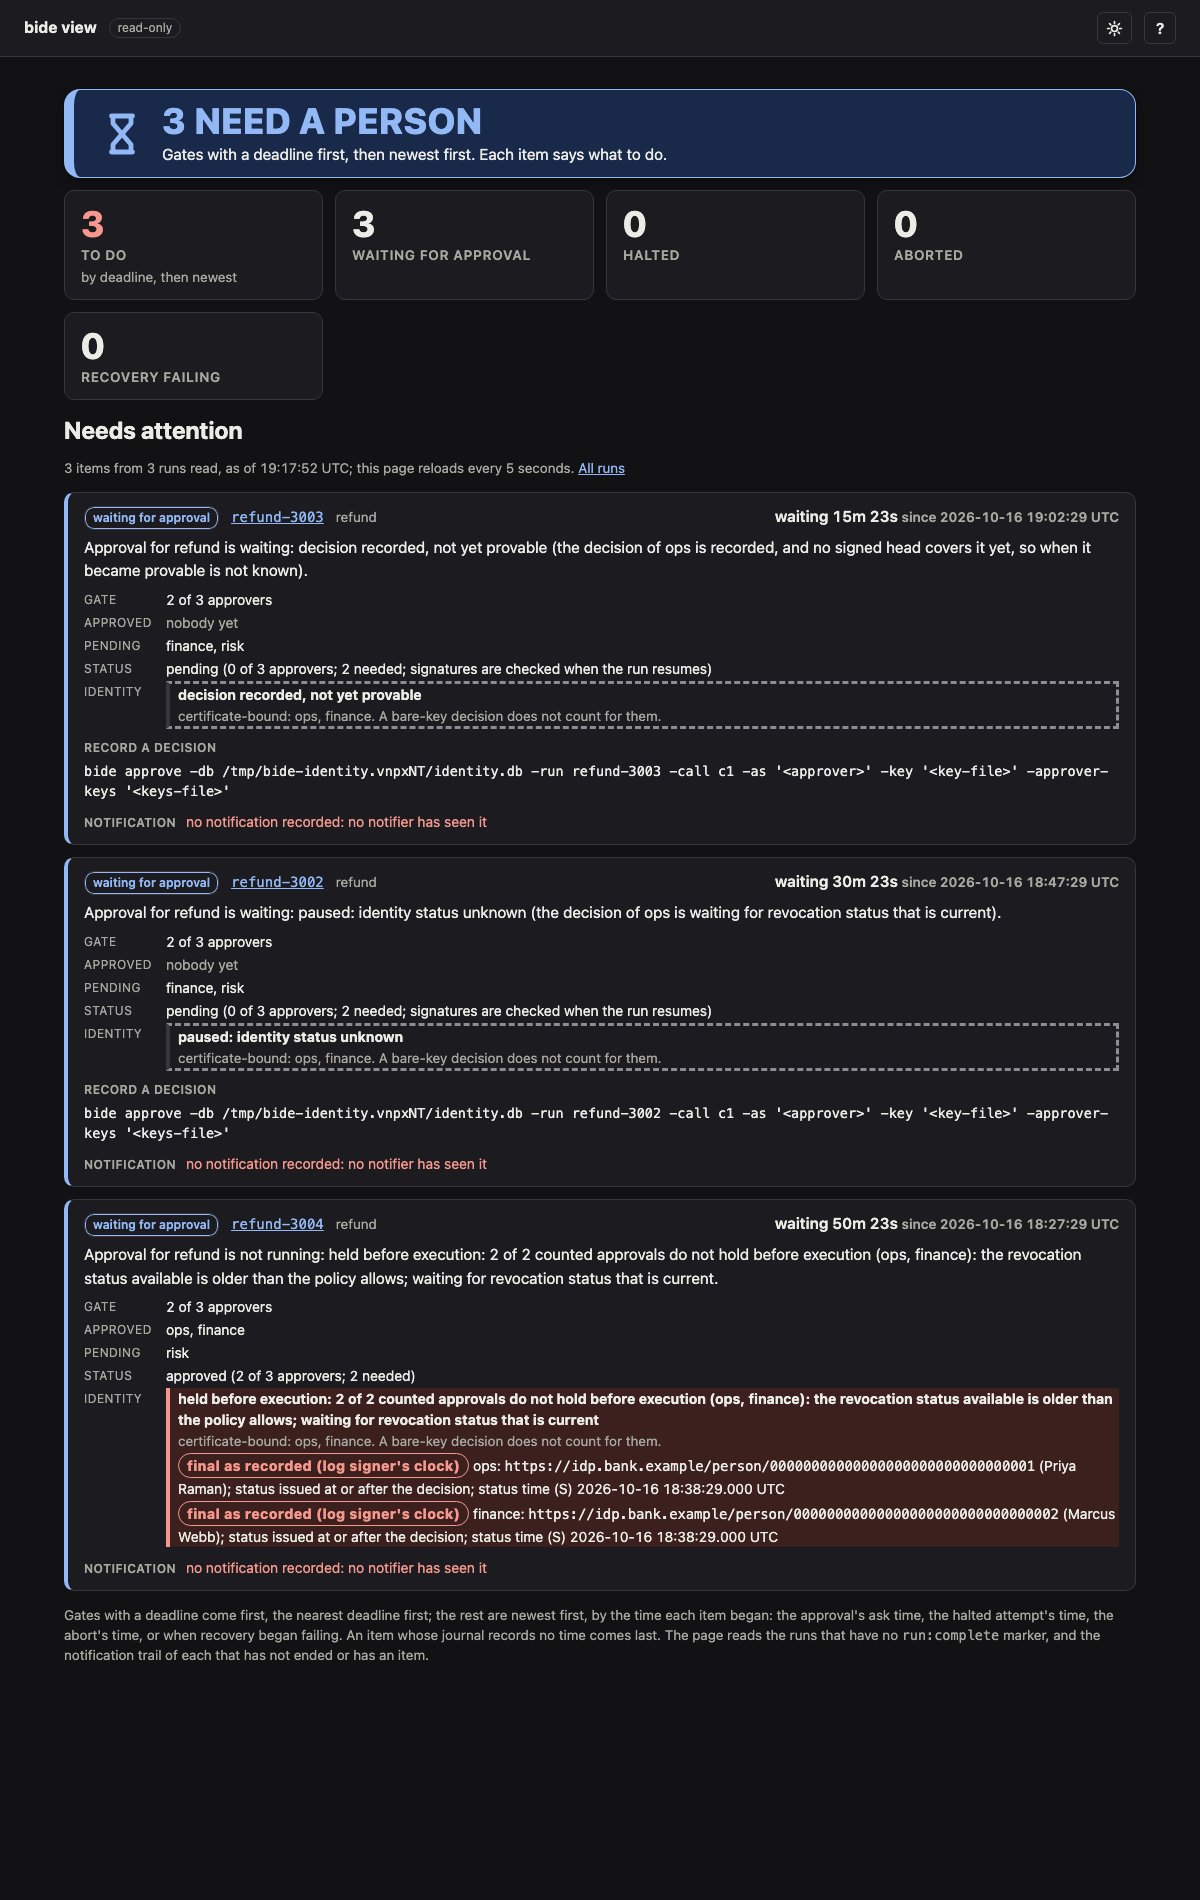
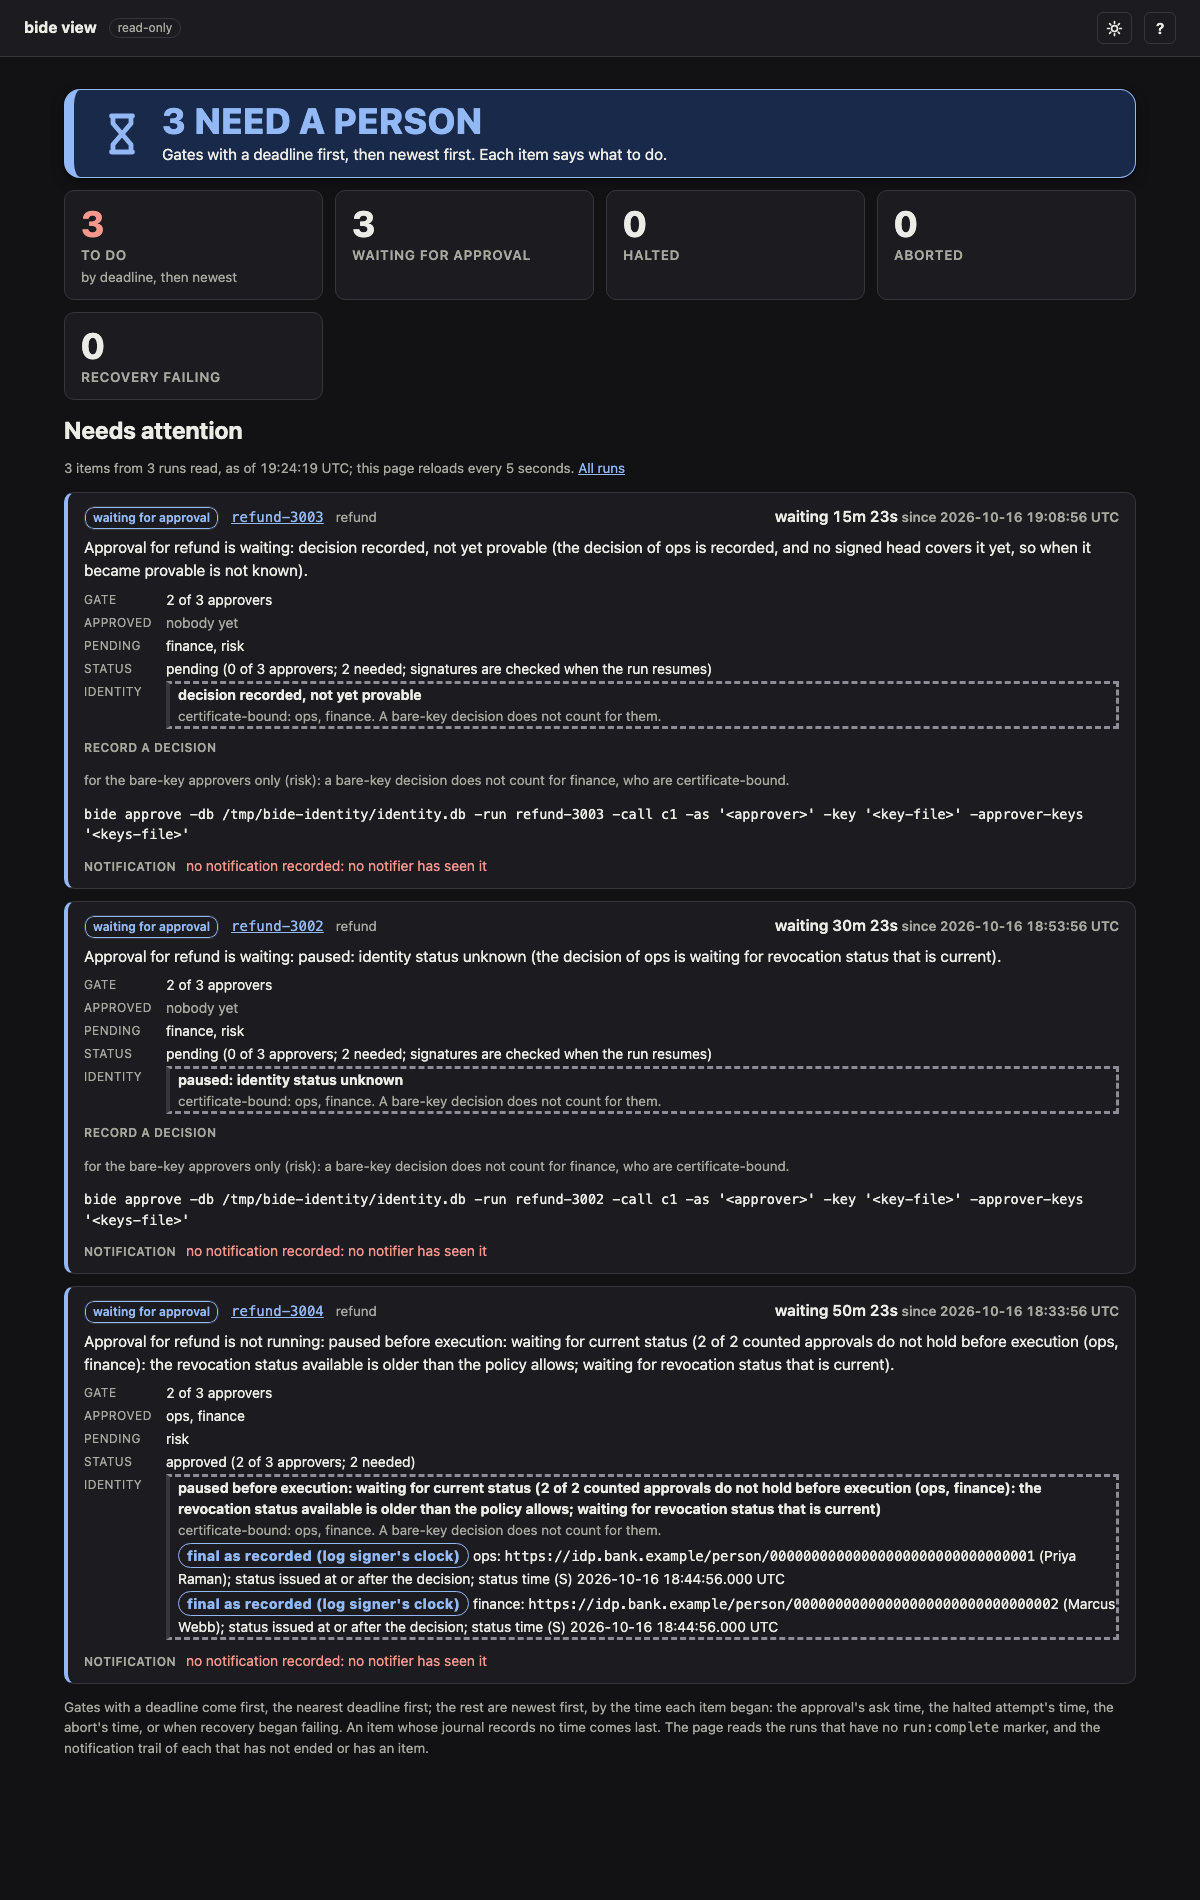
identity screenshots: bare-key command only for bare-key approvers, paused-for-status wording, checked demo journal, fixed demo path

Changed region(s): [[0.0308, 0.4037, 0.9558, 0.9316]]

diff --git a/internal/runview/assets/attention.html b/internal/runview/assets/attention.html
@@ -23,7 +23,7 @@
 {{range .Cards}}<br><span class="idc id-{{.Class}}"><span class="idbadge">{{.TierText}}</span>{{if .Disputed}} <span class="iddisputed">DISPUTED</span>{{end}} {{.Approver}}: <span class="mono">{{.Identifier}}</span>{{with .DisplayName}} ({{.}}){{end}}{{with .Basis}}; {{.}}{{end}}{{with .StatusTime}}; status time (S) {{.}} UTC{{end}}</span>{{end}}</dd>{{end}}
 {{if .Due}}<dt>Deadline</dt><dd class="{{if .Overdue}}bad{{else if .DueSoon}}warn{{end}}">{{if .DueSoon}}{{if .Overdue}}OVERDUE{{else}}DUE SOON{{end}}: {{end}}{{.Due}}</dd>{{end}}
 </dl>{{end}}
-{{if and .Gate .Gate.Overdue}}<p class="attn-label">Deadline passed</p><p class="muted">Decisions on this gate are refused. Drive the run again (resume it) to record the expiry; the call does not run.</p>{{else if .Command}}<p class="attn-label">Record a decision</p><pre class="attn-cmd">{{.Command}}</pre>{{else if .NoCommand}}<p class="attn-label">Record a decision</p><p class="muted">{{.NoCommand}}: an id holds a control or invisible character. Use <code>bide approve -list</code>.</p>{{end}}
+{{if and .Gate .Gate.Overdue}}<p class="attn-label">Deadline passed</p><p class="muted">Decisions on this gate are refused. Drive the run again (resume it) to record the expiry; the call does not run.</p>{{else if .CertOnly}}<p class="attn-label">Record a decision</p><p class="muted">{{.CommandNote}}.</p>{{else if .Command}}<p class="attn-label">Record a decision</p>{{with .CommandNote}}<p class="muted small">{{.}}.</p>{{end}}<pre class="attn-cmd">{{.Command}}</pre>{{else if .NoCommand}}<p class="attn-label">Record a decision</p><p class="muted">{{.NoCommand}}: an id holds a control or invisible character. Use <code>bide approve -list</code>.</p>{{end}}
 {{with .Halt}}<p class="attn-label">Outcome unknown: look the operation up where it ran, then record what happened</p><pre class="attn-cmd">agent.ResolveHalt(ctx, journal,
   {{.Ref}},
   agent.Outcome{Result: ...})</pre>{{end}}

diff --git a/internal/runview/identity_test.go b/internal/runview/identity_test.go
@@ -544,13 +544,54 @@ func TestIdentity_RecordTimesWithoutMilliseconds(t *testing.T) {
 	}
 }
 
-// A counted gate whose newest phase note says exec-hold, with no hold record and no result, is held, not final.
+// A counted gate whose newest phase note says exec-hold, with no hold record and no result, is paused for status, never final.
 func TestIdentity_ExecHoldNoteWithoutARecordIsHeld(t *testing.T) {
 	fx := identRecs(t, agent.TierLogclockFinal, true, nil)
 	note, _ := json.Marshal(agent.ApprovalWait{ToolUseID: "c1", ToolName: "refund", Need: 1, Approvers: []string{"alice"}, IdentityBound: true, Pause: agent.PauseExecHold, PauseDetail: "the status is older than the execution bound"})
 	recs := append(fx.recs, agent.Record{Name: agent.ApprovalPauseStep("c1", 1), Kind: agent.StepValue, Result: note})
 	g := identGate(t, recs)
-	if g.Identity.Hold == nil || !g.Held || g.Identity.Class == "final" || !strings.Contains(g.Identity.PhaseText, "older than the execution bound") {
+	if !g.Identity.Paused || g.Identity.Hold != nil || !g.Held || g.Identity.Class != "wait" || !strings.Contains(g.Identity.PhaseText, "paused before execution: waiting for current status") ||
+		!strings.Contains(g.Identity.PhaseText, "older than the execution bound") {
 		t.Fatalf("identity = %+v", g.Identity)
+	}
+}
+
+// The bare-key command is shown only for bare-key approvers, and not at all when every pending approver is certificate-bound.
+func TestIdentity_AttentionCommandIsForBareKeyApproversOnly(t *testing.T) {
+	cmdOpts := Options{ApproveCommand: func(run, call string, single bool) (string, error) {
+		return "bide approve -run " + run + " -call " + call, nil
+	}}
+	mk := func(approvers, bound []string) AttentionItem {
+		w, _ := json.Marshal(agent.ApprovalWait{ToolUseID: "c1", ToolName: "refund", Need: 2, Approvers: approvers, IdentityBound: true, IdentityApprovers: bound, IdentityPolicyDigest: strings.Repeat("a", 64)})
+		recs := []agent.Record{
+			{Name: "@llm/0", Kind: agent.StepModel, Message: &agent.Message{Role: agent.RoleAssistant, Parts: []agent.Part{agent.ToolUse{ID: "c1", Name: "refund", Args: json.RawMessage(`{}`)}}}},
+			rec(agent.ApprovalPendingStep("c1"), json.RawMessage(w)),
+		}
+		v := Options{}.viewOf(context.Background(), "r1", recs, nil)
+		items := cmdOpts.runItems(v, recs)
+		if len(items) != 1 {
+			t.Fatalf("items = %+v", items)
+		}
+		return items[0]
+	}
+	mixed := mk([]string{"ops", "risk"}, []string{"ops"})
+	if mixed.Command == "" || !strings.Contains(mixed.CommandNote, "bare-key approvers only (risk)") || !strings.Contains(mixed.CommandNote, "ops") {
+		t.Fatalf("mixed: %+v", mixed)
+	}
+	certOnly := mk([]string{"ops", "finance"}, []string{"ops", "finance"})
+	if certOnly.Command != "" || !certOnly.CertOnly || !strings.Contains(certOnly.CommandNote, "ops, finance") {
+		t.Fatalf("cert only: %+v", certOnly)
+	}
+}
+
+// The paused-for-status summary says the detail once.
+func TestIdentity_PausedSummaryDoesNotRepeatTheDetail(t *testing.T) {
+	fx := identRecs(t, agent.TierLogclockFinal, true, nil)
+	note, _ := json.Marshal(agent.ApprovalWait{ToolUseID: "c1", ToolName: "refund", Need: 1, Approvers: []string{"alice"}, IdentityBound: true, Pause: agent.PauseExecHold, PauseDetail: "status is old"})
+	recs := append(fx.recs, agent.Record{Name: agent.ApprovalPauseStep("c1", 1), Kind: agent.StepValue, Result: note})
+	v := Options{}.viewOf(context.Background(), "r1", recs, nil)
+	items := Options{}.runItems(v, recs)
+	if len(items) != 1 || strings.Count(items[0].Summary, "status is old") != 1 {
+		t.Fatalf("items = %+v", items)
 	}
 }

diff --git a/cmd/bide/internal/identitydemo/demo_test.go b/cmd/bide/internal/identitydemo/demo_test.go
@@ -21,12 +21,14 @@ import (
 	"net/url"
 	"os"
 	"path/filepath"
+	"slices"
 	"testing"
 	"time"
 
 	"github.com/bide-ai/bide/agent"
 	"github.com/bide-ai/bide/agent/agenttest"
 	"github.com/bide-ai/bide/audit"
+	"github.com/bide-ai/bide/internal/runview"
 	"github.com/bide-ai/bide/internal/testca"
 	"github.com/bide-ai/bide/store/sqlite"
 )
@@ -185,11 +187,6 @@ func run(t *testing.T, dir string) error {
 	}
 	clock = ago(5 * time.Minute)
 	if err := drive("refund-3001", "3001", v); err != nil {
-		recs, _ := j.History(ctx, "refund-3001")
-		_, checks := agent.TallyApprovals(recs, agent.ApprovalSubject{RunID: "refund-3001", ToolUseID: "c1", ToolName: "refund", Args: json.RawMessage(`{"order":"3001","amount":4800,"currency":"USD"}`)}, agent.ApprovalPolicy{Need: 2, Approvers: []string{"ops", "finance", "risk"}}, v)
-		for _, c := range checks {
-			fmt.Fprintf(os.Stderr, "check %s counted=%v reason=%q cert=%+v\n", c.Approver, c.Counted, c.Reason, c.Cert)
-		}
 		return fmt.Errorf("refund-3001: %w", err)
 	}
 
@@ -245,7 +242,55 @@ func run(t *testing.T, dir string) error {
 	}
 	clock = ago(6 * time.Minute)
 	if err := drive("refund-3004", "3004", v); err == nil {
-		fmt.Fprintln(os.Stderr, "identity.go: note: refund-3004 was not held")
+		return errors.New("refund-3004 ran: the gate did not stop it on stale status")
+	}
+	return check(ctx, j)
+}
+
+// check reads each written run back through the viewer and fails unless it is the state the guide's
+// pictures say it is, so a screenshot can never show another state under its caption.
+func check(ctx context.Context, j *agent.Journal) error {
+	gate := func(run string) (runview.Gate, bool, error) {
+		recs, err := j.History(ctx, run)
+		if err != nil {
+			return runview.Gate{}, false, err
+		}
+		v := runview.Build(ctx, run, recs, nil)
+		if len(v.Gates) != 1 || v.Gates[0].Identity == nil {
+			return runview.Gate{}, false, fmt.Errorf("%s: gates = %+v", run, v.Gates)
+		}
+		ran := slices.ContainsFunc(recs, func(r agent.Record) bool { return r.Kind == agent.StepToolResult && r.ToolUseID == "c1" })
+		return v.Gates[0], ran, nil
+	}
+	want := func(run string, ran bool, phase, class string) (runview.Gate, error) {
+		g, did, err := gate(run)
+		if err != nil {
+			return g, err
+		}
+		if did != ran || g.Identity.Phase != phase || g.Identity.Class != class {
+			return g, fmt.Errorf("%s: executed=%v phase=%q class=%q, want executed=%v phase=%q class=%q (%+v)", run, did, g.Identity.Phase, g.Identity.Class, ran, phase, class, g.Identity)
+		}
+		return g, nil
+	}
+	g, err := want("refund-3001", true, "", "prov")
+	if err != nil {
+		return err
+	}
+	if len(g.Identity.Cards) != 2 || g.Identity.Cards[0].Tier != agent.TierLogclockFinal || g.Identity.Cards[1].Tier != agent.TierProvisional {
+		return fmt.Errorf("refund-3001: cards = %+v", g.Identity.Cards)
+	}
+	if _, err := want("refund-3002", false, agent.PauseAwaitingStatus, "wait"); err != nil {
+		return err
+	}
+	if _, err := want("refund-3003", false, agent.PauseAwaitingAnchor, "wait"); err != nil {
+		return err
+	}
+	g, err = want("refund-3004", false, agent.PauseExecHold, "wait")
+	if err != nil {
+		return err
+	}
+	if !g.Identity.Paused || !g.Held {
+		return fmt.Errorf("refund-3004: not paused before execution: %+v", g.Identity)
 	}
 	return nil
 }

diff --git a/internal/runview/identity.go b/internal/runview/identity.go
@@ -40,10 +40,14 @@ type GateIdentity struct {
 	Detail    string `json:"detail,omitempty"`
 	// Unchecked are certificate-bound approvers who decided on a gate that has not counted yet: the
 	// decision is recorded, and nothing here says it counts.
-	Unchecked                 []string       `json:"unchecked,omitempty"`
-	Cards                     []IdentityCard `json:"cards,omitempty"`
-	Hold                      *IdentityHold  `json:"hold,omitempty"`
-	tallyDigest, recordPolicy string         // the current count's, for matching an audit result
+	Unchecked []string       `json:"unchecked,omitempty"`
+	Cards     []IdentityCard `json:"cards,omitempty"`
+	Hold      *IdentityHold  `json:"hold,omitempty"`
+	// Paused: the newest phase note says exec-hold but the journal holds no hold record, which is the
+	// gate waiting for current status before it runs the call (nothing authoritative is written; the same
+	// approvals run once status is fresh), not a revoked or no-longer-verifying decision.
+	Paused                    bool   `json:"paused,omitempty"`
+	tallyDigest, recordPolicy string // the current count's, for matching an audit result
 	// Generation is the gate's newest count (0 is the first); Reasked says a call was held before
 	// execution and the gate asked again, so earlier counts are history.
 	Generation int  `json:"generation,omitempty"`
@@ -327,10 +331,10 @@ func identityOf(recs []agent.Record, byName map[string]agent.Record, id string, 
 		}
 	}
 	// The phase note is a hint, but a counted gate whose newest note says exec-hold and whose call has no
-	// result is shown held even when the hold record is absent: never as final.
+	// result is shown paused even when the hold record is absent: never as final.
 	if gi.Hold == nil && haveTally && !resulted && gi.Phase == agent.PauseExecHold {
-		gi.Hold = &IdentityHold{Reason: "exec-hold", Detail: gi.Detail}
-		gi.PhaseText = "held before execution: " + cmpStr(gi.Detail, "the phase note says the pre-execution status check holds the call (no hold record in the journal)")
+		gi.Paused = true
+		gi.PhaseText = "paused before execution: waiting for current status" + cond(gi.Detail != "", " ("+gi.Detail+")", "")
 	}
 	gi.Class, gi.Line = identityClass(gi, g)
 	return gi
@@ -371,6 +375,8 @@ func identityClass(gi *GateIdentity, g Gate) (class, line string) {
 			return identWait, "decision recorded, identity not checked yet"
 		}
 		return identWait, "waiting for decisions"
+	case gi.Paused:
+		return identWait, gi.PhaseText
 	case gi.Hold != nil:
 		return identBad, gi.PhaseText + cond(gi.Reasked, " (re-asked after an earlier hold)", "")
 	}

diff --git a/internal/runview/attention.go b/internal/runview/attention.go
@@ -71,6 +71,11 @@ type AttentionItem struct {
 	// NoCommand says why an approval has none although the viewer writes them: an id that cannot be
 	// shown or pasted safely (approveline.ErrUnsafe).
 	NoCommand string `json:"no_command,omitempty"`
+	// CommandNote qualifies Command on a gate with certificate-bound approvers: the command signs a bare
+	// key, so it is for the bare-key approvers only, and a bare-key decision does not count for the
+	// certificate-bound ones. CertOnly: every pending approver is certificate-bound, so no command is shown.
+	CommandNote string `json:"command_note,omitempty"`
+	CertOnly    bool   `json:"cert_only,omitempty"`
 	// Notify says whether the item was notified and acknowledged; nil without the notify trail.
 	Notify *NotifyStatus `json:"notify,omitempty"`
 }
@@ -353,7 +358,7 @@ func (o Options) runItems(v *View, recs []agent.Record) []AttentionItem {
 		if gi := g.Identity; gi != nil && gi.PhaseText != "" {
 			// The phase leads: it is why a person is needed, and what to do differs from a plain wait.
 			it.Summary = "Approval for " + cmp.Or(g.ToolName, g.ToolUseID) + " is " + cond(g.Held, "not running", "waiting") + ": " + gi.PhaseText
-			if gi.Detail != "" && gi.Hold == nil {
+			if gi.Detail != "" && gi.Hold == nil && !gi.Paused {
 				it.Summary += " (" + gi.Detail + ")"
 			}
 			it.Summary += "."
@@ -382,6 +387,23 @@ func (o Options) runItems(v *View, recs []agent.Record) []AttentionItem {
 				it.NoCommand = "no command"
 			default:
 				it.Command = cmd
+			}
+			if gi := g.Identity; gi != nil && gi.Bound && !g.Single {
+				var bare, bound []string
+				for _, a := range g.Pending {
+					if slices.Contains(gi.Approvers, a) {
+						bound = append(bound, a)
+					} else {
+						bare = append(bare, a)
+					}
+				}
+				switch {
+				case len(bare) == 0:
+					it.Command, it.NoCommand, it.CertOnly = "", "", true
+					it.CommandNote = "every pending approver (" + strings.Join(bound, ", ") + ") is certificate-bound: a bare-key decision does not count for them, so no bare-key command is shown"
+				case len(bound) > 0 && it.Command != "":
+					it.CommandNote = "for the bare-key approvers only (" + strings.Join(bare, ", ") + "): a bare-key decision does not count for " + strings.Join(bound, ", ") + ", who are certificate-bound"
+				}
 			}
 		}
 		out = append(out, it)

diff --git a/internal/runview/model.go b/internal/runview/model.go
@@ -695,7 +695,7 @@ func gates(recs []agent.Record, calls map[string]agent.ToolUse, order []string) 
 		if g.Identity = identityOf(recs, byName, id, wait, g, resulted); g.Identity != nil {
 			g.Identity.Unchecked = unchecked
 			g.Identity.Class, g.Identity.Line = identityClass(g.Identity, g)
-			g.Held = g.Identity.Hold != nil && g.Tallied && !resulted
+			g.Held = (g.Identity.Hold != nil || g.Identity.Paused) && g.Tallied && !resulted
 		}
 		g.Status = gateStatus(g)
 		out = append(out, g)

diff --git a/docs/guides/run-viewer.md b/docs/guides/run-viewer.md
@@ -207,7 +207,7 @@ Each item is one thing to do, and says since when:
 
   <picture>
   <source media="(prefers-color-scheme: dark)" srcset="./img/run-viewer-identity-attention-dark.png">
-  <img src="./img/run-viewer-identity-attention-light.png" alt="bide view's Needs attention list with three refunds at gates with certificate-bound approvers: one paused for identity status, one waiting for a covering signed head, and one counted but held before execution because its status is too old">
+  <img src="./img/run-viewer-identity-attention-light.png" alt="bide view's Needs attention list with three refunds at gates with certificate-bound approvers: one paused for identity status, one waiting for a covering signed head, and one counted but paused before execution because its status is too old to run on">
   </picture>
 
 - **Halted: outcome unknown**: the operation whose attempt marker is live with no result, when it was
@@ -480,7 +480,7 @@ auditor's when it re-checks.
 What the gate is paused for is in the block too, from the newest phase note (a hint the records override):
 `paused: identity status unknown` (no usable revocation status yet; it never uncounts), `decision recorded, not yet
 provable` (no signed head covers the decision yet), `counted provisionally, held until final` (the policy requires a
-final tier to run), and `held before execution: ...` (the pre-execution status re-check found the call may not run,
+final tier to run), and `paused before execution: waiting for current status` (a phase note says the pre-execution status check is waiting for fresher status and no hold record exists: nothing authoritative is written, and the same approvals run once status is fresh), and `held before execution: ...` (a hold record: the pre-execution status re-check found the call may not run,
 with the reason, the decisions that no longer hold and the status time). After a hold the gate has a newer generation;
 the older hold is history, shown as asked again. `identity_bound` is read from every note of the call, so a later
 note from an older binary does not downgrade the display. The JSON view carries all of it under each gate's `identity`.

diff --git a/changes/unreleased/identity-shots-real-gate.md b/changes/unreleased/identity-shots-real-gate.md
@@ -1,3 +1,3 @@
 Section: Changed
 
-The run viewer guide's approver identity screenshots now come from records the real certificate-bound gate writes (a real audit.CertApprover on the agent runtime, in a test that runs only on request: cmd/bide/internal/identitydemo), not hand-written ones, and show only states the gate produces: a log-signer-clock final count, a provisional live count, a gate paused for revocation status, one waiting for a covering signed head, and a call held before execution. The viewer reads the identity records' RFC 3339 times with trimmed nanoseconds (they showed as "not a canonical time") and shows a counted gate whose newest phase note says exec-hold, with no hold record and no result, as held rather than final.
+The run viewer guide's approver identity screenshots now come from records the real certificate-bound gate writes (a real audit.CertApprover on the agent runtime, in a test that runs only on request: cmd/bide/internal/identitydemo), not hand-written ones, and show only states the gate produces: a log-signer-clock final count, a provisional live count, a gate paused for revocation status, one waiting for a covering signed head, and a call paused before execution for current status. The viewer reads the identity records' RFC 3339 times with trimmed nanoseconds (they showed as "not a canonical time") and shows a counted gate whose newest phase note says exec-hold, with no hold record and no result, as paused for current status rather than final. The Needs attention list shows the bare-key approve command only for bare-key approvers and says so (and shows none when every pending approver is certificate-bound), and the demo test reads each run back and fails unless it is the state its caption says.
